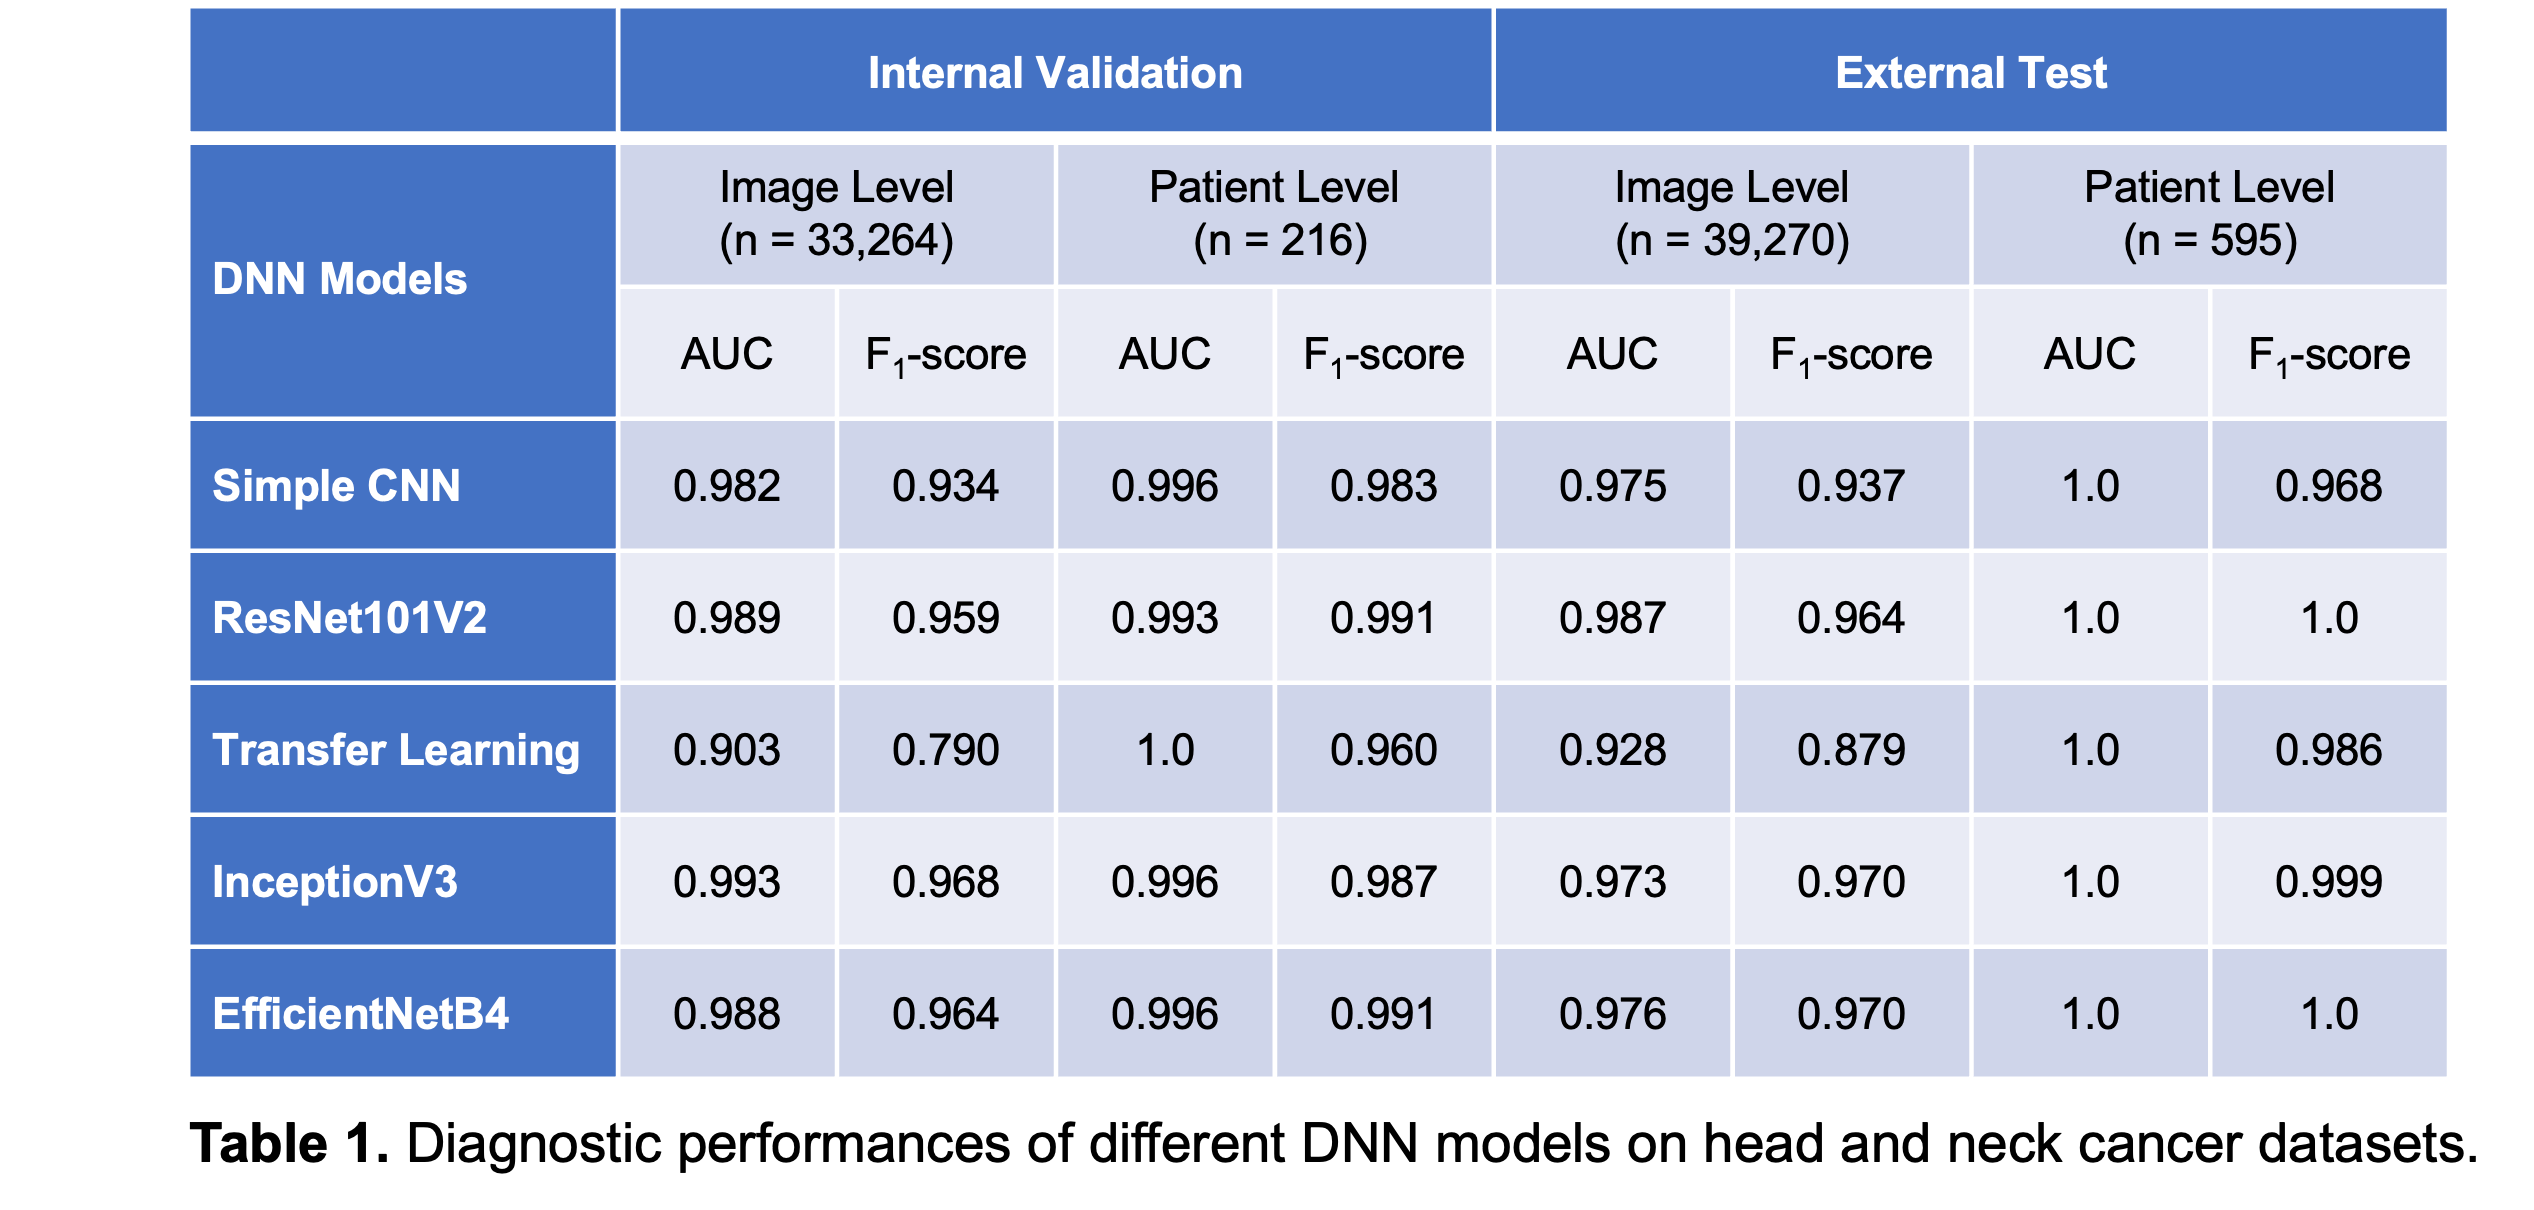
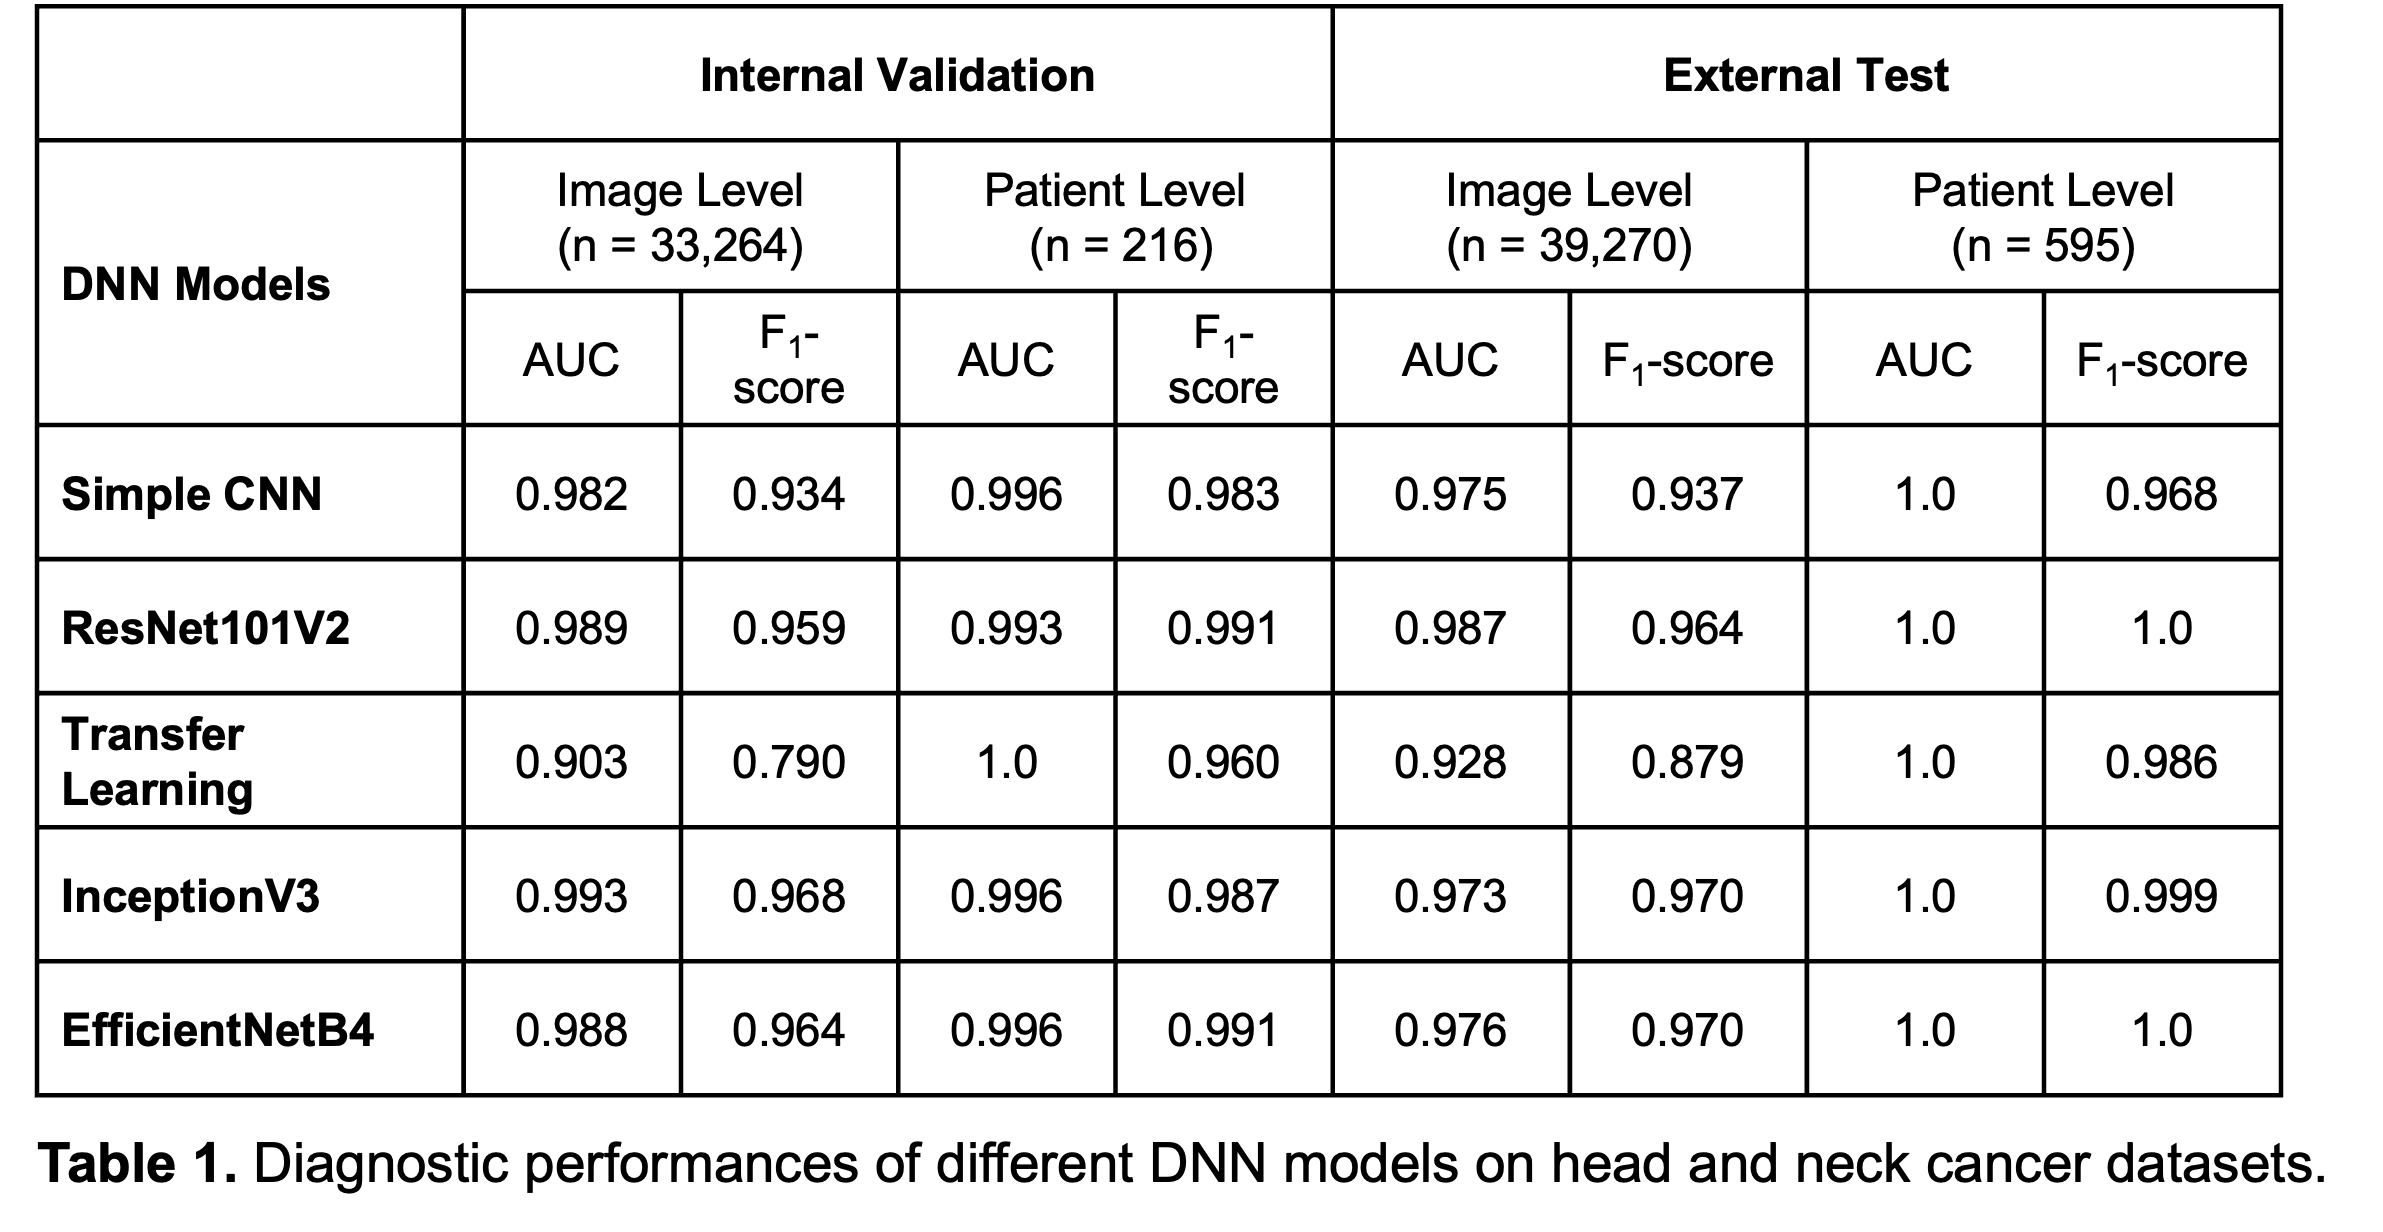
initial commit

diff --git a/README.md b/README.md
@@ -12,9 +12,9 @@ Fully automatic deep learning system to detect IV Contrast in CT scans.
 
 ## Results
 
-<p align="center"><img src="https://github.com/AIM-Harvard/DeepContrast/blob/main/src/utils/Table1.png" align="middle" width="800" title="Results of Head and Neck CT scans" /></p>
+<p align="center"><img src="https://github.com/AIM-Harvard/DeepContrast/blob/main/src/utils/Table1.png" align="middle" width="900" title="Results of Head and Neck CT scans" /></p>
 
-<p align="center"><img src="https://github.com/AIM-Harvard/DeepContrast/blob/main/src/utils/Table2.png" align="middle" width="800" title="Results of Chest CT scans" /></p>
+<p align="center"><img src="https://github.com/AIM-Harvard/DeepContrast/blob/main/src/utils/Table2.png" align="middle" width="900" title="Results of Chest CT scans" /></p>
 
 ## Repository Structure
 
